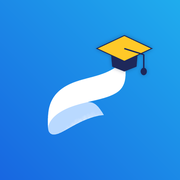
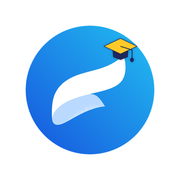
v26 아이콘 — 학사모를 원 안에, Hi-AX 처럼 흰 바탕에 파란 원
대표 «원안에 들어있어야지». Hi-AX 아이콘(흰 바탕·파란 원 76%·같은 크기 리본) 그대로에 작은 학사모를
리본 끝에 원 안으로 얹었다.

Claude-Session: https://claude.ai/code/session_01RsRcm8BJ9YZTyoc6LMfUF5

diff --git a/index.html b/index.html
@@ -24,11 +24,11 @@
 -->
 <!-- 글꼴 — 없으면 기기 글꼴로(새 옷 2026-11-09) -->
 <link rel="stylesheet" href="https://cdn.jsdelivr.net/gh/orioncactus/pretendard@v1.3.9/dist/web/variable/pretendardvariable-dynamic-subset.min.css" integrity="sha384-GIdEBaqGN9mNkDkMkzMHW8EKUqtpPIe/sLj1X7DIrnc9uPtLROJgmuDlh+3rBw0j" crossorigin="anonymous">
-<link rel="stylesheet" href="app.css?v=20261109-v25">
+<link rel="stylesheet" href="app.css?v=20261109-v26">
 </head>
 <body>
 <div id="app"><div class="boot">시간표를 불러오는 중입니다…</div></div>
 <div id="sheet-root"></div>
-<script src="app.js?v=20261109-v25"></script>
+<script src="app.js?v=20261109-v26"></script>
 </body>
 </html>

diff --git a/app.js b/app.js
@@ -26,7 +26,7 @@ const AX_EMBEDDED = new URLSearchParams(location.search).get('axEmbed')==='1' &&
  */
 'use strict';
 
-const VERSION = '20261109-v25';      // index.html 의 ?v= 와 sw.js 의 VERSION 과 같은 값
+const VERSION = '20261109-v26';      // index.html 의 ?v= 와 sw.js 의 VERSION 과 같은 값
 const DAYS = ['월', '화', '수', '목', '금'];
 const WEEK = ['일', '월', '화', '수', '목', '금', '토'];
 const KEY = 'hanmin.timetable.me.v1';

diff --git a/sw.js b/sw.js
@@ -10,7 +10,7 @@
  * VERSION 은 index.html 의 ?v= 와 app.js 의 VERSION 과 같은 값이다. 올리면 새 워커가
  * 설치되고, 앱은 «새 버전이 있어요»를 띄운 뒤 학생이 누를 때 갈아 끼운다.
  */
-const VERSION = '20261109-v25';
+const VERSION = '20261109-v26';
 const CACHE = `tt-${VERSION}`;
 const SHELL = [
   './',
